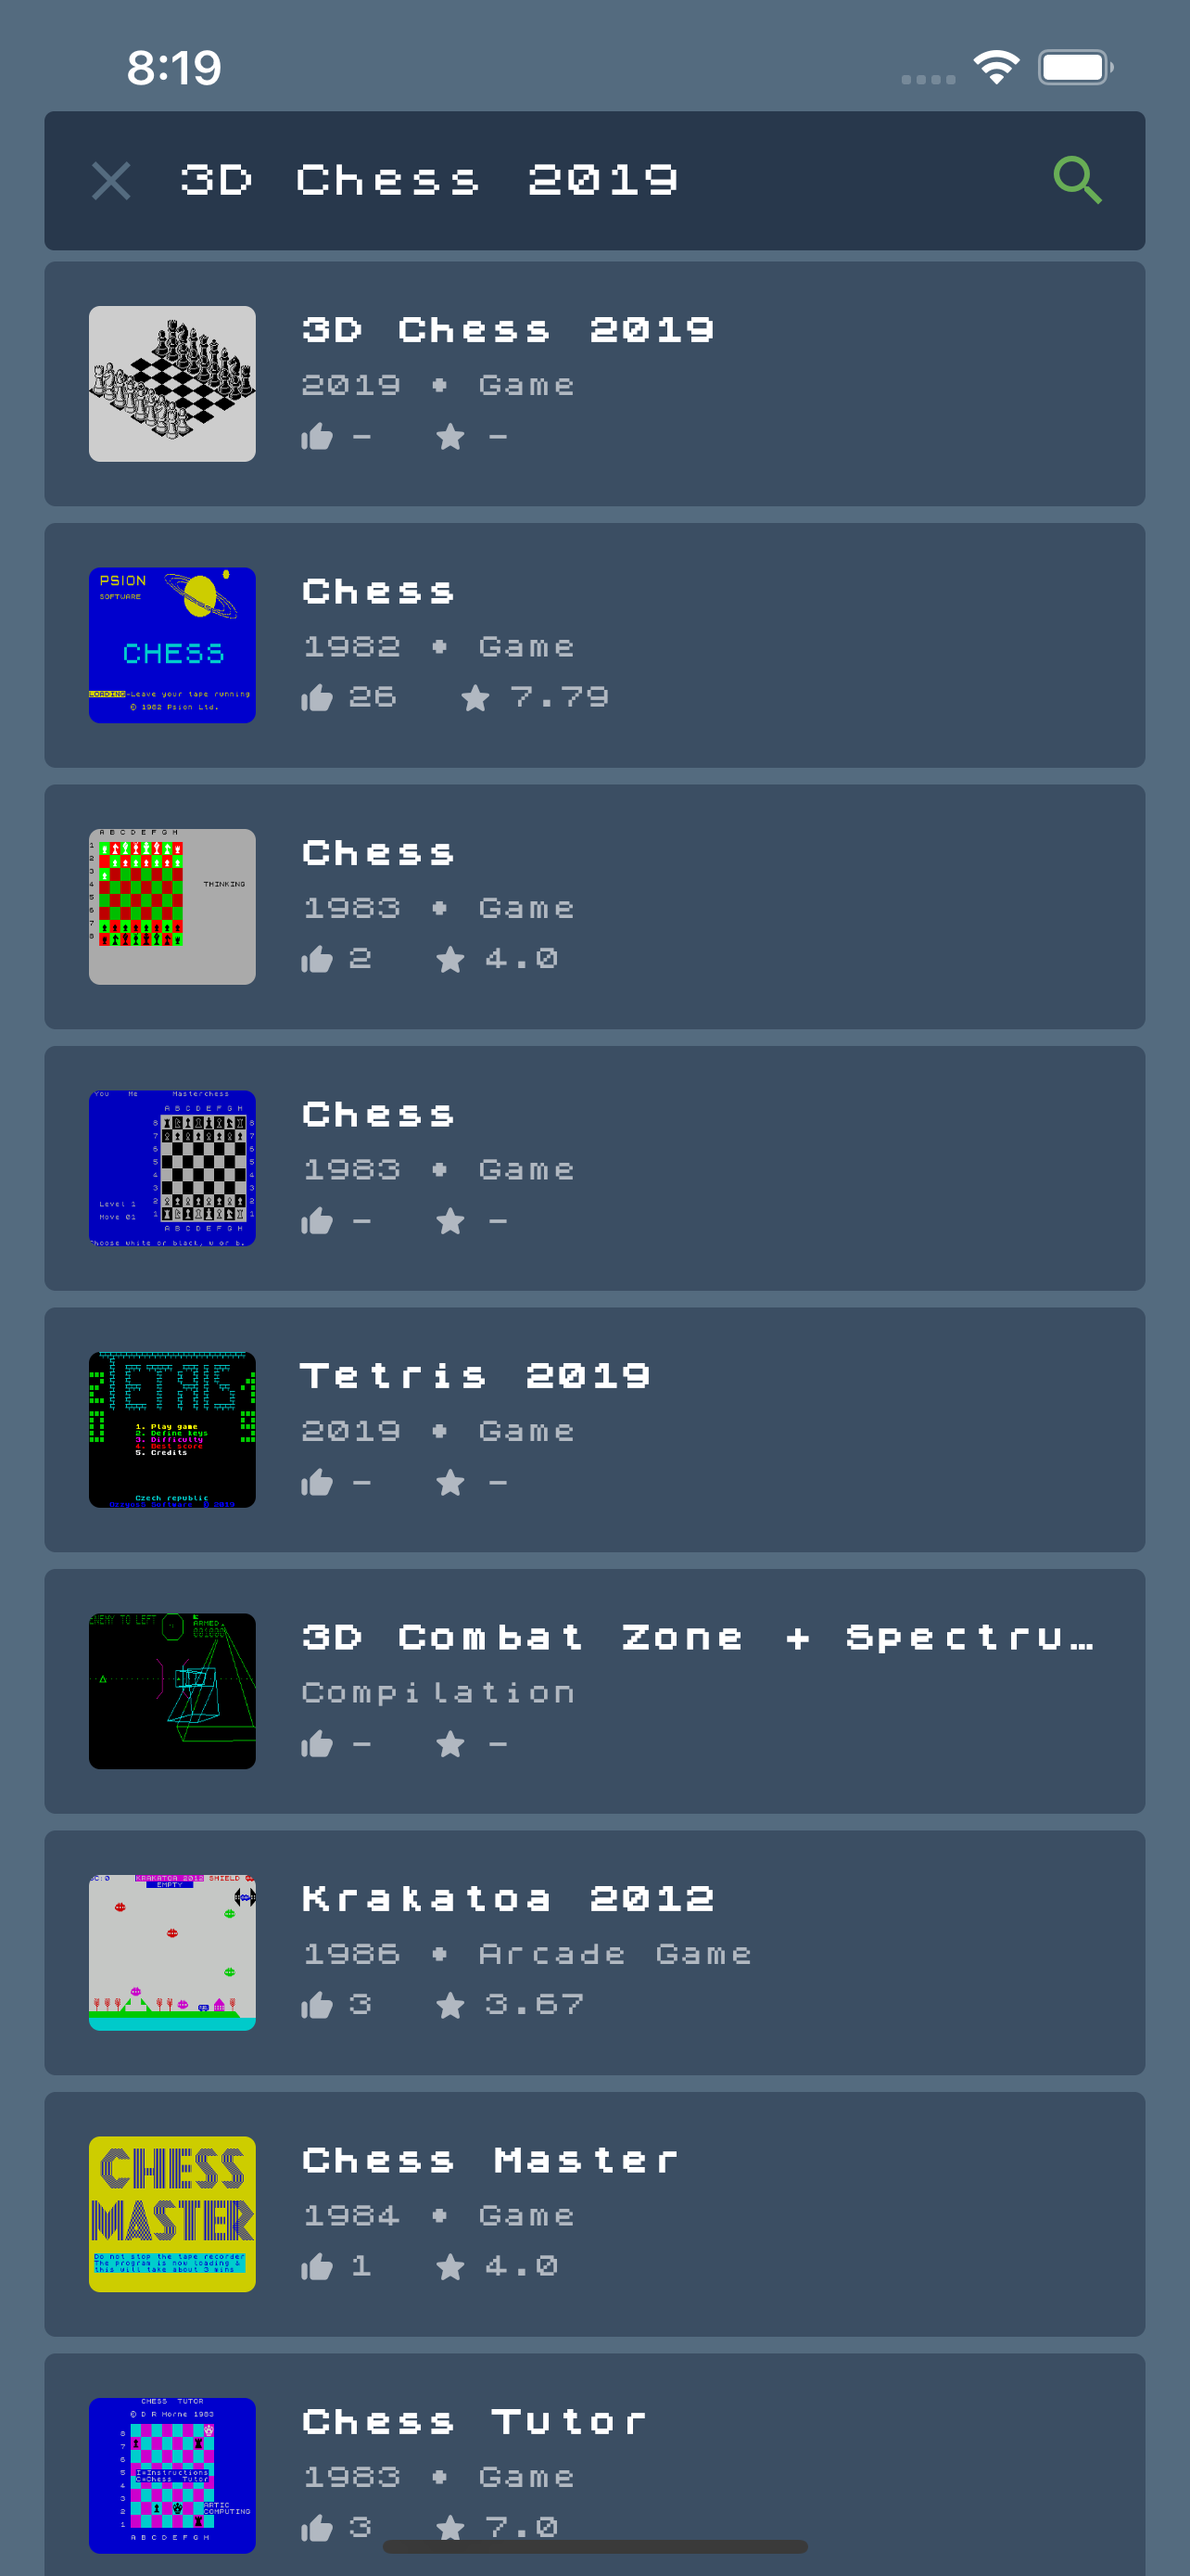
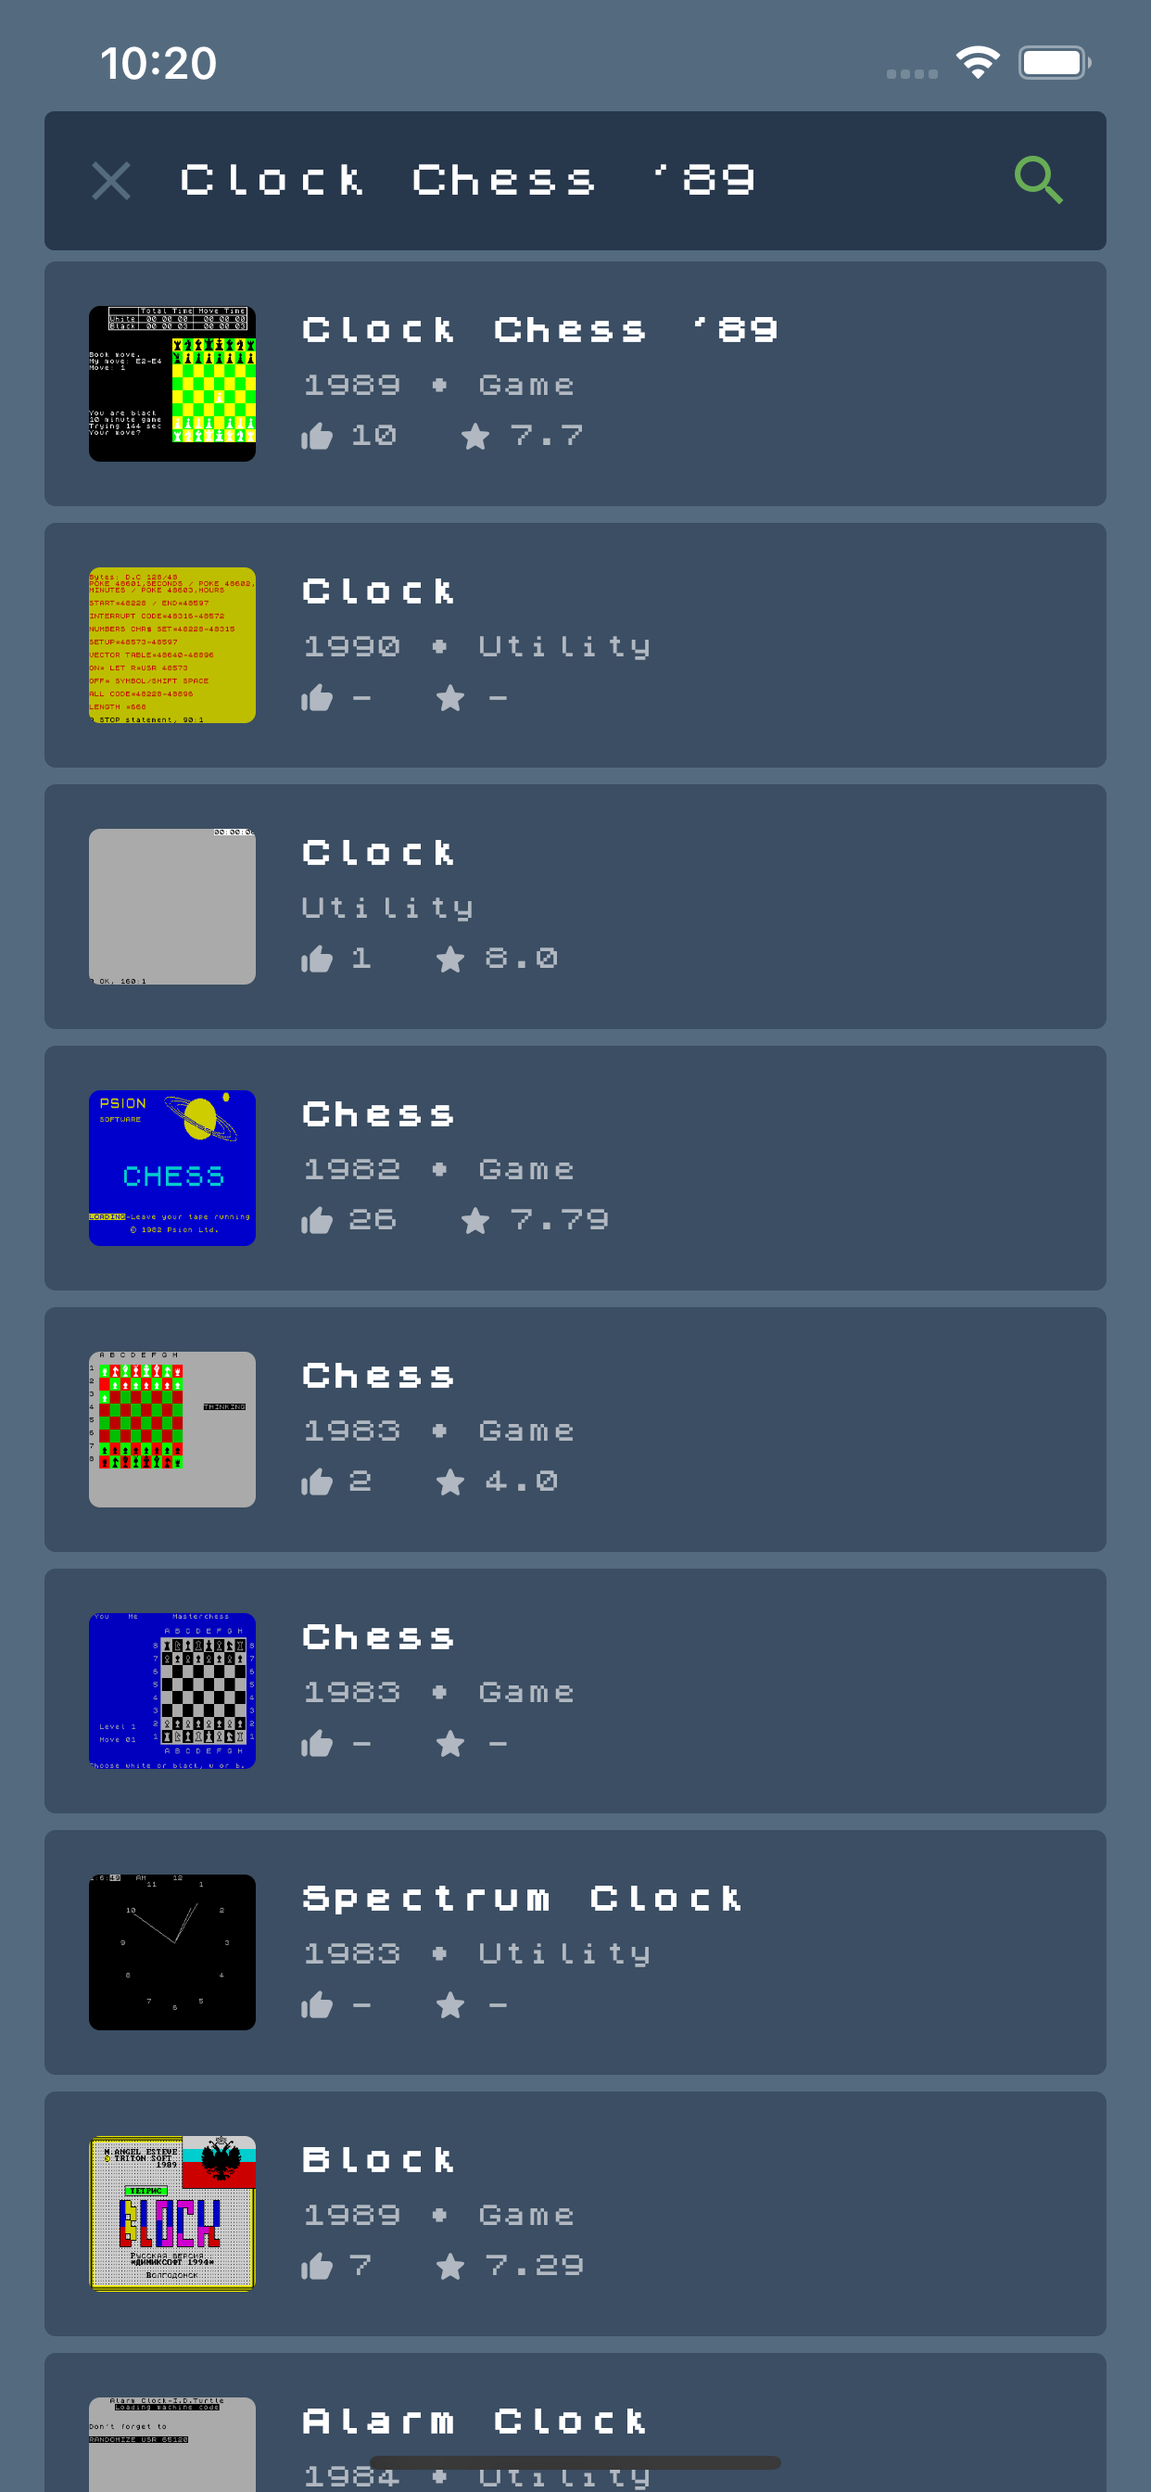
addeed media, fixed sceenshot uris

Changed region(s): [[0.0306, 0.0, 0.9791, 1.0], [0.0918, 0.0, 0.1836, 0.0312]]

diff --git a/lib/services/zx_api/zxapi_service.dart b/lib/services/zx_api/zxapi_service.dart
@@ -22,8 +22,7 @@ import 'models/term_dto.dart';
 
 class ZxApiService implements BackendService {
   static const _baseUrl = 'https://api.zxinfo.dk/v3';
-  static const _contentBaseUrl2 = 'https://zxinfo.dk/media';
-  static const _contentBaseUrl = 'https://spectrumcomputing.co.uk';
+  static const _contentBaseUrl = 'https://zxinfo.dk/media';
   static const _tapeBaseUrl =
       "https://archive.org/download/zx-spectrum-tosec-set-v-2020-02-18-lady-eklipse/%s.zip%s";
   static const _termsUrl = '/suggest/%s';
@@ -180,7 +179,6 @@ class ZxApiService implements BackendService {
   }
 
   static String _fixScreenShotUrl(String url) {
-    if (url.startsWith('/zxscreens')) return _contentBaseUrl2 + url;
     return _contentBaseUrl + url;
   }
 
